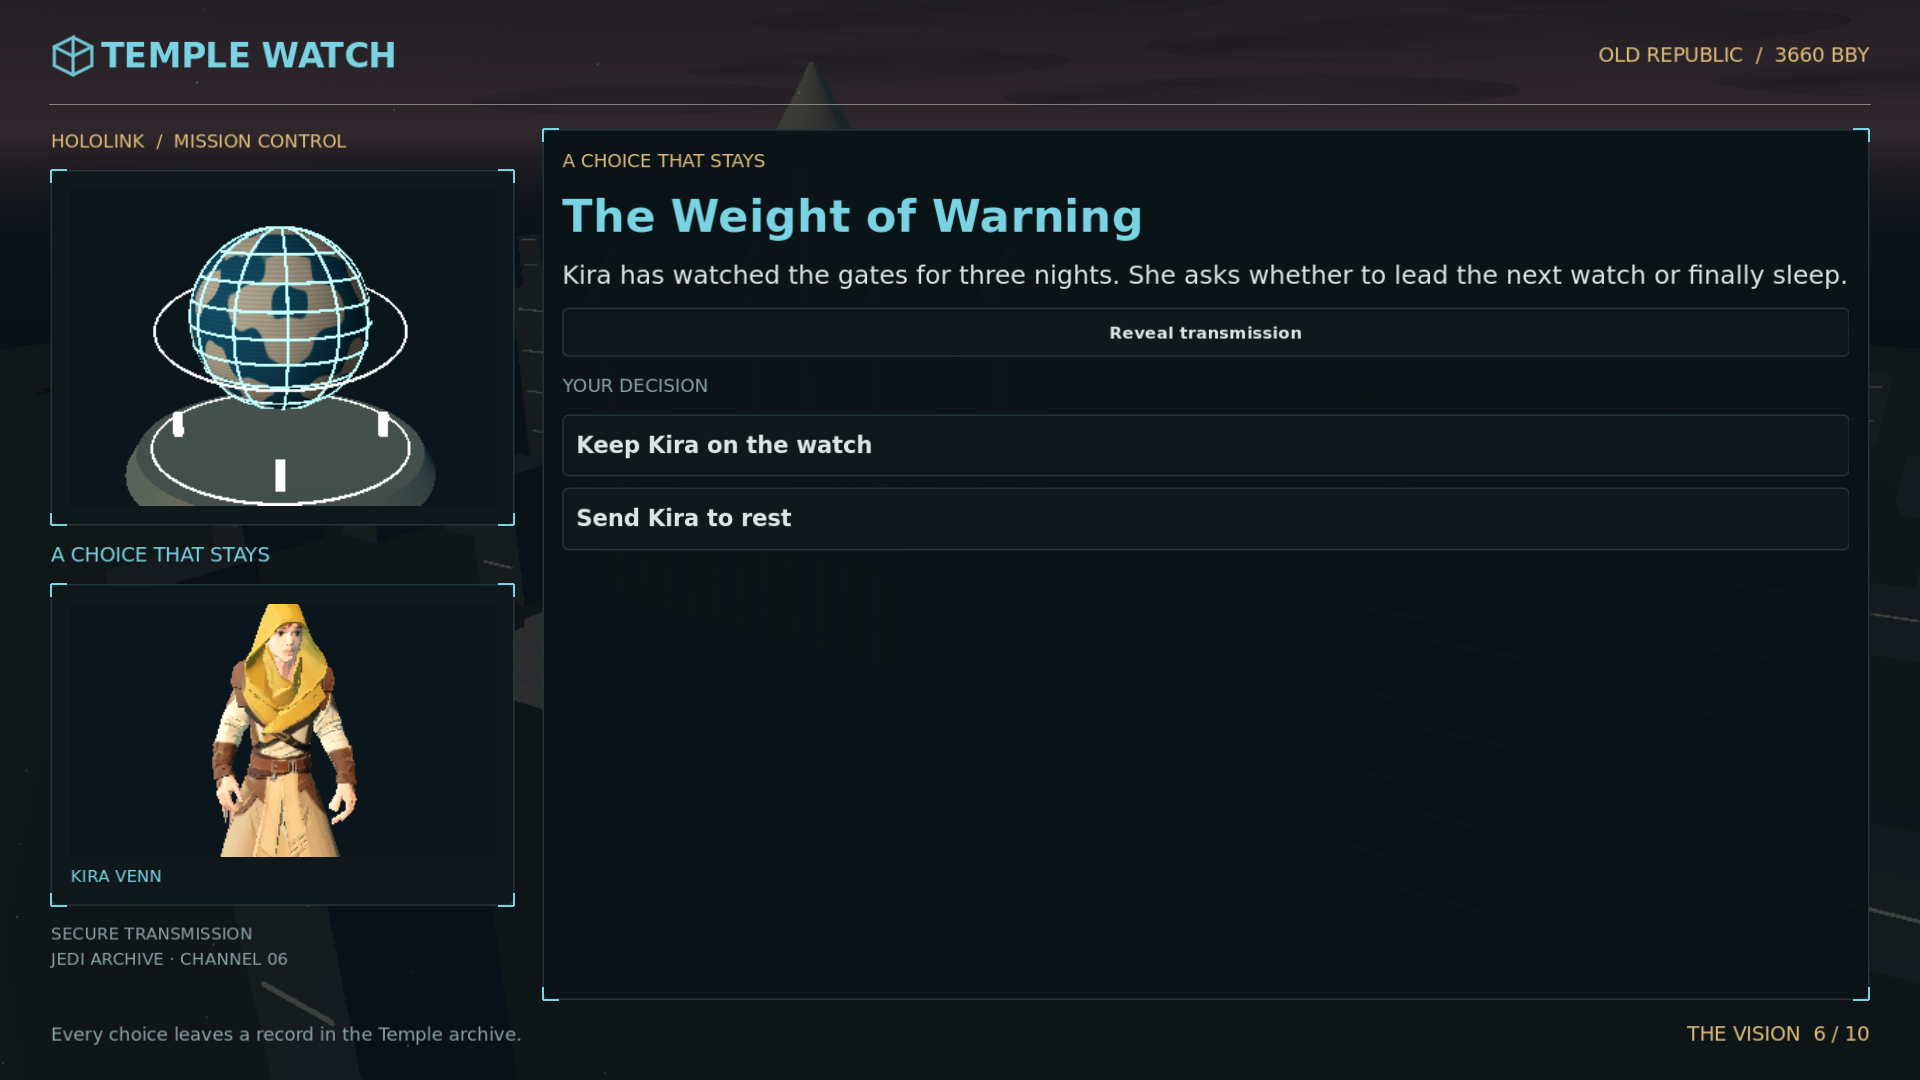
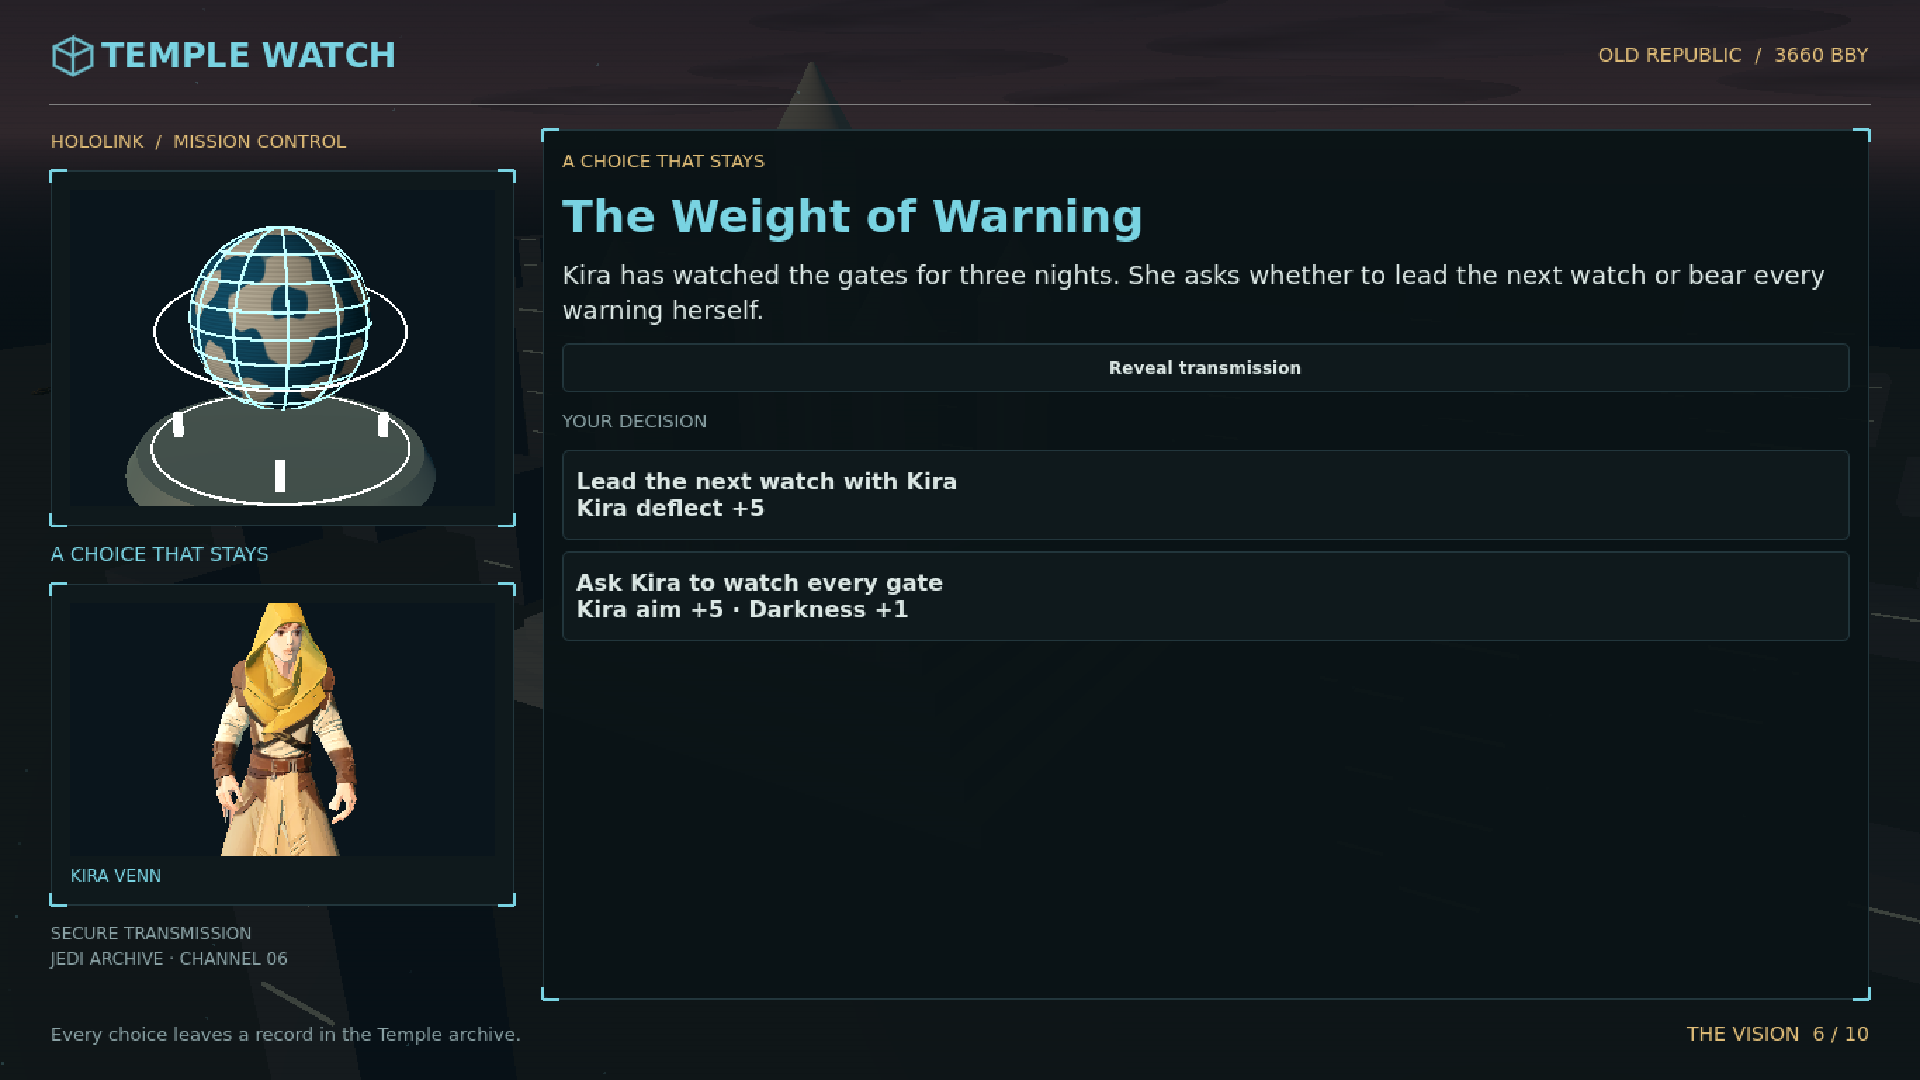
Give each Jedi arc its own rewards and slower pacing

diff --git a/docs/godot/night1/STORY-REPORT.md b/docs/godot/night1/STORY-REPORT.md
@@ -33,16 +33,16 @@ Each line appears only when its saved flag is set. Resource rewards are granted 
 
 The shipped starting roster has **two Jedi** (Kira and Tor) and four non-Jedi (Rhal, Ilsa, Bren, Grak). All six receive an arc; their existing classes and roles remain intact.
 
-| Character | Step 1: Temple talk | Step 2: briefing | Step 3: resolution |
+| Character | Step 1: Temple talk | Step 2: briefing | Step 3: resolution rewards |
 |---|---|---|---|
-| Kira Venn | Kira keeps a second watch over the docking ring. She asks whether a warning is still useful when no one wants to hear it. | Kira marks a route through the service gantries. She asks you to trust the map she made by hand. | Kira has watched the gates for three nights. She asks whether to lead the next watch or finally sleep.; first choice +5 will, second +1 crit and +1 Darkness |
-| Tor Saalen | Tor checks the treatment cells after lights out. He wants to know who will protect a prisoner when the guns fall silent. | Tor spots a wounded attacker by the east bulkhead. He asks for a corridor to bring them in alive. | Tor has kept a list of the wounded on both sides. He asks whether to take responsibility for their care.; first choice +5 will, second +1 crit and +1 Darkness |
-| Sgt. Rhal Dax | Rhal sets an extra place in the mess. He says a squad needs room for whoever comes home late. | Rhal points to a service lift he secured before dawn. He asks you to move the squad through it. | Rhal has trained a replacement for every post. He asks whether to stay on the line or teach the next watch.; first choice +5 will, second +1 crit and +1 Darkness |
-| Ilsa Myr | Ilsa listens to old comms after the Temple sleeps. She has found a voice she knows in an enemy transmission. | Ilsa traces the voice to a relay beneath the street. She asks for a quiet approach. | Ilsa has the source file and a name. She asks whether to put it before the Council.; first choice +5 will, second +1 crit and +1 Darkness |
-| Doc Bren | Bren has moved a cot into the corridor. He says a locked infirmary helps no one outside it. | Bren spots an unused medical store near the objective. He asks for a minute to collect it. | Bren has treated everyone who reached his door. He asks whether the ward should remain open after the siege.; first choice +5 will, second +1 crit and +1 Darkness |
-| Grak Ordo | Grak polishes a cracked plate of armor. He says the clan gave it to him when he chose to guard this gate. | Grak identifies a clan mark on a supply crate. He asks to challenge its bearer openly. | Grak has an offer to return home. He asks whether his watch here is finished.; first choice +5 will, second +1 crit and +1 Darkness |
+| Kira Venn | Questions whether an unwelcome warning matters. | Maps a route through the service gantries. | Lead the watch: Kira deflect +5. Watch every gate: Kira aim +5, Darkness +1. |
+| Tor Saalen | Asks who protects prisoners after the guns fall silent. | Opens a corridor for a wounded attacker. | Take the ward: Tor will +5, Darkness −1. Use forbidden strength: Tor maximum Force +1, Darkness +1. |
+| Sgt. Rhal Dax | Keeps a place for the late returning squadmate. | Secures a service lift for the squad. | Stay on the line: Rhal will +8. Command the hard watch: Rhal aim +4, Darkness +1. |
+| Ilsa Myr | Finds a familiar voice in enemy comms. | Traces the voice to a street relay. | Submit evidence: intel +1, Ilsa aim +3. Hide the source: Ilsa crit +2, Darkness +1. |
+| Doc Bren | Moves a cot outside the infirmary. | Recovers an unused medical store. | Keep the ward open: Bren gains one medkit per battle. Reserve the ward: Bren HP +1, Darkness +1. |
+| Grak Ordo | Remembers the clan oath that brought him to the gate. | Challenges the bearer of a clan marked crate. | Stay: Grak armor +1. Pursue the clan debt: Grak gains one grenade per battle, Darkness +1. |
 
-Every arc opens its talk after one completed mission. The next briefing advances the arc, and a Temple conversation after two completed missions resolves it. If the character dies before resolution, the arc closes and the Journal adds a memorial line. `bonus.will`, `bonus.crit`, and `dark` use existing roster fields and battle stat calculation.
+The first Temple talk opens after one completed mission. The briefing opens after three completed missions or any bond reaches level 1. Resolution opens after six completed missions or at era 2 start. The Journal names the remaining missions and the alternate gate. A death before resolution closes the arc and adds a memorial line. Rewards use existing roster bonuses, Darkness, and intel; no new battle effects are introduced. Existing saves retain their arc step.
 
 ## Journal and era interludes
 
@@ -61,7 +61,7 @@ Every arc opens its talk after one completed mission. The next briefing advances
 ## Verification
 
 - Godot 4.7.2 headless import completed.
-- `story_night1_test.gd`: 141 checks, 0 failures. It covers all 20 callbacks with and without flags, eight mechanical effects, recurring text without repeated rewards, six three-step arc fixtures and deaths, Journal sections, both interludes, and old save load.
+- `story_night1_test.gd`: 249 checks, 0 failures. It covers callbacks, both unique rewards for all six arcs, mission/bond/era gates, deaths, Journal sections, interludes, and old and mid-arc save loads.
 - `story_bonds_test.gd`: 452 checks, 0 failures.
 - Full `./godot/test.sh`: exit 0, every suite 0 failures, 0 `SCRIPT ERROR`; Normal rescue bot 10/20 wins; campaign suite 45 checks, 0 failures.
 

diff --git a/docs/godot/night1/STORY2B.md b/docs/godot/night1/STORY2B.md
@@ -1,0 +1,14 @@
+# Night 1b addendum — finish era-transition arc resolution (2026-11-03)
+
+You already did most of docs/godot/night1/STORY2.md in this worktree (uncommitted changes present — keep them, do not reset). You reported: the era 2 gate is incomplete because the era transition replaces the roster before the step-3 resolution can reward that character.
+
+## Lease extension (granted)
+In addition to the STORY2.md lease you may edit:
+- godot/scripts/story/story_engine.gd — ONLY a small call/hook. It is ~570 lines and must stay under 600; put logic in arc_night1.gd or arc_rewards.gd.
+- godot/scripts/campaign_bridge.gd — ONLY to show pending arc resolutions before the era roster swap (e.g. queue the step-3 dialogue(s) before advance_era replaces the roster, then continue the era transition and interlude as today).
+
+## Requirement
+When era 2 starts with an arc at step 2 and that character alive, the player sees that character's step-3 resolution BEFORE the roster swap, and its reward lands (or carries forward in a way the test proves). Dead characters still close with a memorial line. Era interlude still shows after.
+
+## Verification
+Add tests to story_night1_test.gd for this path. ./godot/test.sh exit 0, 0 SCRIPT ERROR, all suites 0 failures, Normal rescue 10/20. Then commit everything (STORY2 work + this) with message "Give each Jedi arc its own rewards and slower pacing". Do not push. Do not delegate or spawn subagents.
